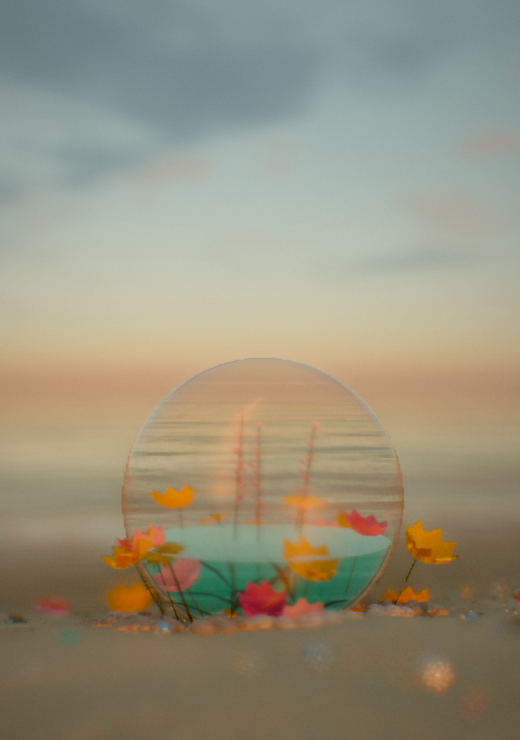
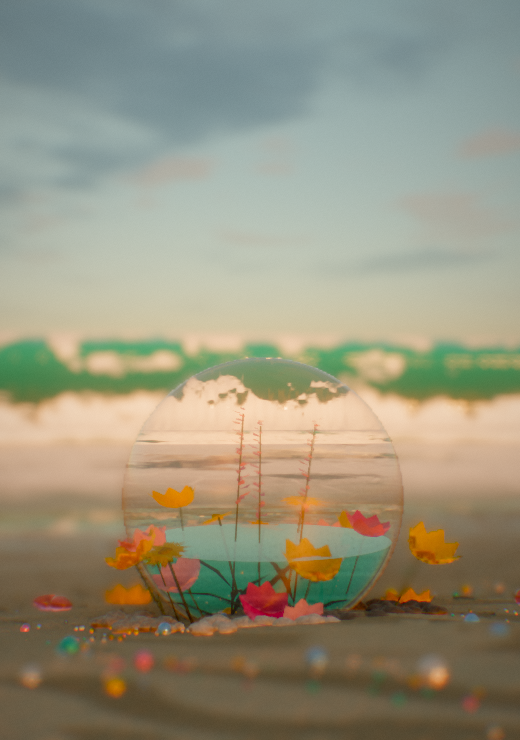
Flower Orb: breaking turquoise waves, whitewater, gentler DoF
Adds an animated breaking-wave mesh (opaque material with thin-crest
transmission, lip/base foam that grows as the wave collapses) and a
drifting whitewater sheet, shifts ocean absorption toward turquoise,
moves the orb nearer the water and relaxes the depth of field.

Claude-Session: https://claude.ai/code/session_01CrqiDHUxRRMtQAfhoBc2eP

diff --git a/scenes/flower-orb.html b/scenes/flower-orb.html
@@ -781,7 +781,44 @@ void main(){
  if(vWP.y<uClipY)discard;
  vec3 N=normalize(vN);vec3 V=normalize(uCam-vWP);
  vec3 alb=uAlbedo;float m=uMetal,r=uRough,hb=0.,bs=0.;
- if(uMode==5||uMode==6){
+ if(uMode==7){
+  /* breaking wave body (opaque). local: x along crest, y up (crest height uGlass.y), z toward shore.
+     uRough = foam amount (collapse phase), uMetal = time for foam drift */
+  if(dot(N,V)<0.)N=-N;
+  float Hc=max(uGlass.y,.1),hy=clamp(vLocal.y/Hc,0.,1.2),front=smoothstep(-.6,.3,vLocal.z);
+  vec2 fp=vec2(vLocal.x*.9,vLocal.y*2.2-uMetal*1.3);
+  float rip=vn(vLocal.xz*3.1+vec2(0.,uMetal*.7))*.6+vn(vLocal.xz*9.+uMetal)*.4;
+  N=bumpN(N,vWP,rip*.08,1.);
+  float NoV=max(dot(N,V),1e-3);float Fr=.02+.98*pow(1.-NoV,5.);
+  vec3 deepC=vec3(.004,.05,.045),lightC=vec3(.03,.62,.48);
+  float thin=pow(hy,1.6)*front;                       /* the upper front face is thin water: light passes through */
+  vec3 sky=envLod(vec3(0.,1.,0.),6.);
+  vec3 body=mix(deepC,lightC,thin)*(sky*1.1+uSunColor*.18);
+  body+=lightC*uSunColor*pow(max(dot(-V,uSunDir),0.),3.)*thin*.9;
+  vec3 col=body*(1.-Fr)+envLod(reflect(-V,N),.6)*Fr;
+  col+=uSunColor*pow(max(dot(N,normalize(V+uSunDir)),0.),300.)*4.*sunShadow(vWP,N,max(dot(N,uSunDir),0.),vViewZ);
+  /* foam: lip + crest, whitewater at the base of the face, sparse streaks on the back, all growing with collapse */
+  float fn=vn(fp*1.7)*.55+vn(fp*5.3)*.3+vn(fp*14.)*.15;
+  float lip=smoothstep(.78,.98,hy)*smoothstep(-.2,.4,vLocal.z);
+  float base=(1.-smoothstep(.0,.48,hy))*front;
+  float back=(1.-front)*smoothstep(.55,.95,vn(vLocal.xz*vec2(1.2,4.)+uMetal*.2))*.5;
+  float fa=clamp((lip*1.25+base*1.1+back)*(.6+uRough)+uRough*.55*front*hy,0.,1.);
+  float foam=smoothstep(.62-fa*.55,.75-fa*.5,fn+fa*.35);
+  vec3 foamC=vec3(.95)*(sky*1.2+uSunColor*max(dot(N,uSunDir),0.)*.35+uSunColor*.12);
+  col=mix(col,foamC,foam);
+  o=vec4(applyFog(col,vWP),1.);return;}
+ if(uMode==5||uMode==6||uMode==8){
+  if(uMode==8){
+   /* whitewater sheet (transparent): drifting foam patches + lace; uRough = time, uGlass.y = strength, local z toward shore */
+   vec2 q=vLocal.xz;float t=uRough;
+   vec2 dq=q-vec2(0.,t*.9);
+   float n=vn(dq*.7)*.5+vn(dq*2.1)*.3+vn(dq*6.5)*.2;
+   vec2 wl=worley(dq*1.3);float lace=1.-smoothstep(0.,.12,wl.y-wl.x);
+   float zz=vLocal.z/max(uGlass.z,.01);float band=smoothstep(-.5,-.3,zz)*(1.-smoothstep(.3,.5,zz));
+   float a=clamp((smoothstep(.32,.58,n)*.95+lace*.6*smoothstep(.2,.5,n))*band*uGlass.y,0.,1.);
+   vec3 sky=envLod(vec3(0.,1.,0.),6.);
+   vec3 c=vec3(.93)*(sky*1.15+uSunColor*max(uSunDir.y,0.)*.4+uSunColor*.1);
+   o=vec4(applyFog(c*a,vWP),a);return;}
   /* transparent pass only (premultiplied). 5 = solid/hollow glass: Fresnel reflection + lens image through a sphere
      (uGlassC = centre, radius), alpha uGlass.y/.z above/below local y uGlass.x; 6 = tinted liquid with in-scatter glow */
   if(dot(N,V)<0.)N=-N;
@@ -844,7 +881,7 @@ S.absorbFS=`
 in vec3 vWP;in vec3 vN;in vec3 vLocal;in float vViewZ;
 uniform sampler2D uHeight;uniform vec2 uHm;uniform vec3 uCam;
 layout(location=0) out vec4 o;
-const vec3 ABSORB=vec3(.45,.09,.04);
+const vec3 ABSORB=vec3(.50,.065,.10);
 void main(){
  float depth=max(0.,-texture(uHeight,vWP.xz*uHm.x+uHm.y).r);
  vec3 V=normalize(uCam-vWP);
@@ -854,7 +891,7 @@ S.waterFS=`
 in vec3 vWP;in vec3 vN;in vec3 vLocal;in float vViewZ;
 uniform sampler2D uHeight,uWv0,uWv1,uWv2,uWv3,uSim,uFoam;uniform vec2 uHm;uniform vec4 uWL,uSimWin,uFoamWin;uniform float uTime,uPixel;uniform vec4 uRipple[8];
 layout(location=0) out vec4 o;
-const vec3 ABS=vec3(.34,.085,.05);
+const vec3 ABS=vec3(.40,.062,.085);
 float bedH(vec2 p){return texture(uHeight,p*uHm.x+uHm.y).r;}
 vec3 seabed(vec2 p,float fp){
  float n2=vn(p*.9)*.6+vn(p*2.3)*.4;
@@ -2101,7 +2138,9 @@ function setLightUniforms(p){
  p.v4('uPatchRect',PATCH.cx,PATCH.cz,PATCH.size*.47,PATCH.rectOn).v4('uPatch',PATCH.cx,PATCH.cz,PATCH.size,0);
  p.v4('uSimWin',SIM.win[0],SIM.win[1],SIM.win[2],SIM.ok?1:0).v4('uSandWin',SAND.win[0],SAND.win[1],SAND.win[2],1);
  p.f('uTime',time).f('uCOn',CAUSTON).f('uCL',WAVE_L[0]).v4('uWL',WAVE_L[0],WAVE_L[1],WAVE_L[2],WAVE_L[3]).f('uPixel',2*Math.tan(cam.fov/2)/R.h).f('uClipY',CV.clip).f('uUseRefl',CV.useRefl).m('uMirrorVP',F.VPm);}
-function objModel(o){const r=o.rot,sp=o.spin;return m4.model(o.p[0],o.p[1],o.p[2],r[0]+(sp?sp[0]*time:0),r[1]+(sp?sp[1]*time:0),r[2],o.s);}
+function objModel(o){const r=o.rot,sp=o.spin,M=m4.model(o.p[0],o.p[1],o.p[2],r[0]+(sp?sp[0]*time:0),r[1]+(sp?sp[1]*time:0),r[2],o.s);
+ if(o.sv)for(let c=0;c<3;c++)for(let i=0;i<3;i++)M[c*4+i]*=o.sv[c];   /* optional per-axis scale */
+ return M;}
 function lodMesh(o){if(!o.lods)return o.m;const d=Math.hypot(o.p[0]-cam.pos[0],o.p[1]-cam.pos[1],o.p[2]-cam.pos[2]),ld=o.lodDist||[16,40];const k=d<ld[0]?0:(d<ld[1]?1:2);o.lodNow=k;return o.lods[Math.min(k,o.lods.length-1)];}
 function allObjects(){const l=objects.map(o=>({m:lodMesh(o),ms:o.lods?o.lods[o.lods.length-1]:o.m,model:objModel(o),mat:o.mat,glass:o.mat.glass,o,noShadow:o.castShadow===false}));
  for(const b of physics.balls){const bm=BALL_MATS[b.mat];l.push({m:meshes.sphere,model:m4.model(b.p[0],b.p[1],b.p[2],0,0,0,b.r),mat:{a:bm.a,m:bm.m,r:bm.r,mode:0}});}
@@ -2164,7 +2203,7 @@ function drawWorld(objs,mir){
  if(skirt)drawMesh(skirt);
  if(PATCH.on){const q=P.terrainPatch;setLightUniforms(q);q.i('uTerrainMode',0).f('uPatchOn',1);gl.enable(gl.POLYGON_OFFSET_FILL);gl.polygonOffset(-2,-2);drawMesh(PATCH.mesh);gl.disable(gl.POLYGON_OFFSET_FILL);}
  p=P.pbr;setLightUniforms(p);
- for(const o of objs){if(o.glass)continue;p.m('uModel',o.model).v3('uAlbedo',o.mat.a[0],o.mat.a[1],o.mat.a[2]).f('uMetal',o.mat.m).f('uRough',o.mat.r).i('uMode',o.mat.mode);drawMesh(o.m);}
+ for(const o of objs){if(o.glass)continue;p.m('uModel',o.model).v3('uAlbedo',o.mat.a[0],o.mat.a[1],o.mat.a[2]).f('uMetal',o.mat.m).f('uRough',o.mat.r).i('uMode',o.mat.mode);if(o.mat.wave)p.v4('uGlass',0,o.mat.wave.h,0,0);drawMesh(o.m);}
  gl.disable(gl.CULL_FACE);
  for(const it of instanced){if(mir&&!it.mirror)continue;p=P[it.prog];setLightUniforms(p);const g=(mir&&it.lod)?it.lod:it.main;gl.bindVertexArray(g.vao);gl.drawElementsInstanced(gl.TRIANGLES,g.count,g.type,0,Math.floor(it.n*it.density(tier)));}
  if(!mir&&foliage.length){p=P.foliage;setLightUniforms(p);foliageUniforms(p);const test=c=>visible(pl,c.c,c.r);
@@ -2208,7 +2247,7 @@ function drawGlass(objs){
  const cp=cam.pos,dd=o=>-Math.hypot(o.model[12]-cp[0],o.model[13]-cp[1],o.model[14]-cp[2]);gs.sort((a,b)=>dd(a)-dd(b));
  const p=P.pbr;setLightUniforms(p);gl.depthFunc(gl.LESS);gl.depthMask(false);gl.enable(gl.BLEND);gl.blendFunc(gl.ONE,gl.ONE_MINUS_SRC_ALPHA);gl.enable(gl.CULL_FACE);
  const one=(o,face,k)=>{const g=o.glass,c=o.model;
-  p.m('uModel',o.model).v3('uAlbedo',o.mat.a[0],o.mat.a[1],o.mat.a[2]).f('uMetal',0).f('uRough',.02).i('uMode',g.liquid?6:5)
+  p.m('uModel',o.model).v3('uAlbedo',o.mat.a[0],o.mat.a[1],o.mat.a[2]).f('uMetal',0).f('uRough',g.foam?time:.02).i('uMode',g.foam?8:(g.liquid?6:5))
    .v4('uGlass',g.fill===undefined?-9:g.fill,(g.aTop||0)*k,(g.aBot===undefined?g.aTop||0:g.aBot)*k,g.ior||1.5).v4('uGlassC',c[12],c[13],c[14],o.o.s*(g.r||1));
   gl.cullFace(face);drawMesh(o.m);};
  for(const o of gs)if(!o.glass.liquid&&o.glass.backfaces!==false)one(o,gl.FRONT,.4);
@@ -2331,13 +2370,41 @@ let seed=777;const rnd=()=>{seed=(seed*1664525+1013904223)>>>0;return seed/42949
 const grid=buildGrid(islandH);eng.setTerrain(grid,{mode:'island'});
 const ANG=.7,dir=[Math.cos(ANG),Math.sin(ANG)],side=[-dir[1],dir[0]];
 const pad=findBeachPad(grid,ANG);
-let k=0;while(k<40&&gridH(grid,pad[0]+dir[0]*k,pad[1]+dir[1]*k)>1.0)k+=.25;   /* dry sand a few metres above the swash */
+let k=0;while(k<40&&gridH(grid,pad[0]+dir[0]*k,pad[1]+dir[1]*k)>.7)k+=.25;   /* dry sand a few metres above the swash */
 const OX=pad[0]+dir[0]*k,OZ=pad[1]+dir[1]*k,OH=gridH(grid,OX,OZ);
 eng.setFocusArea(OX,OZ,OX+dir[0]*16,OZ+dir[1]*16);
 eng.setClouds({coverage:.62});
 eng.setFog({density:.0011});
 eng.setWind({strength:.25});
-eng.setPost({exposure:1.25,bloom:.08,threshold:.9,knee:.6,saturation:1.3,look:[1.08,1.22],vignette:.38,grain:.015,chromatic:.01,dofMaxCoC:Q.get('dof')==='0'?0:7});
+eng.setPost({exposure:1.25,bloom:.08,threshold:.9,knee:.6,saturation:1.3,look:[1.08,1.22],vignette:.38,grain:.015,chromatic:.01,dofMaxCoC:Q.get('dof')==='0'?0:4});
+
+/* ---------- breaking waves + whitewater (the FFT ocean has no breakers) ---------- */
+let sD=0;while(sD<80&&gridH(grid,OX+dir[0]*sD,OZ+dir[1]*sD)>-.25)sD+=.25;   /* distance from the orb to water ~25 cm deep */
+const PROF=[[-9,0],[-7,.12],[-5,.38],[-3.4,.75],[-2.1,1.12],[-1.1,1.38],[-.35,1.5],[.25,1.48],[.7,1.36],[.95,1.18],[.82,1.02],[.55,.86],[.36,.62],[.3,.36],[.42,.14],[.7,0]];
+function genBreaker(L,seg){
+ const vb=[],ib=[],np=PROF.length;
+ for(let i=0;i<=seg;i++){const u=i/seg,x=(u-.5)*L,env=Math.pow(Math.sin(Math.PI*u),.55),hv=env*(.8+.35*(vn2(u*5.3,1.7)-.3)),lean=1.2*(vn2(u*3.1,8.)-.5);
+  for(let j=0;j<np;j++){const [z,y]=PROF[j];vb.push(x,y*hv,z*(.35+.65*env)+lean,0,0,0,u,j/(np-1));}}
+ for(let i=0;i<seg;i++)for(let j=0;j<np-1;j++){const a=i*np+j,b=a+np;ib.push(a,a+1,b,a+1,b+1,b);}
+ const g=weldNormals({vb:new Float32Array(vb),ib:new Uint16Array(ib)});
+ const n=g.vb.length/8,vb2=new Float32Array(n*16);vb2.set(g.vb);vb2.set(g.vb,n*8);
+ for(let i=n;i<2*n;i++){vb2[i*8+3]*=-1;vb2[i*8+4]*=-1;vb2[i*8+5]*=-1;}
+ const ib2=new Uint16Array(g.ib.length*2);ib2.set(g.ib);for(let t=0;t<g.ib.length;t+=3){ib2[g.ib.length+t]=g.ib[t]+n;ib2[g.ib.length+t+1]=g.ib[t+2]+n;ib2[g.ib.length+t+2]=g.ib[t+1]+n;}
+ return {vb:vb2,ib:ib2};}
+/* yaw so that local +z points toward the shore */
+const shoreYaw=(()=>{let best=0,bd=-9;for(let a=0;a<TAU;a+=.002){const M=m4.model(0,0,0,0,a,0,1),d=-(M[8]*dir[0]+M[10]*dir[1]);if(d>bd){bd=d;best=a;}}return best;})();
+const breakerM=eng.addMesh(genBreaker(70,90));
+const waves=[{ph:0,off:3},{ph:.5,off:-9}].map(w=>({...w,o:eng.addObject({m:breakerM,p:[OX,0,OZ],s:1,sv:[1,1.4,1],rot:[0,shoreYaw,0],castShadow:false,
+ mat:{a:[0,0,0],m:0,r:0,mode:7,wave:{h:1.5}}})}));
+const WP=11;   /* seconds per breaker cycle */
+function updateWaves(t){
+ for(const w of waves){const p=((t/WP+w.ph)%1+1)%1,o=w.o,d=sD+17-p*11;
+  o.p=[OX+dir[0]*d+side[0]*w.off,-.05,OZ+dir[1]*d+side[1]*w.off];
+  const h=.16+.84*Math.pow(Math.sin(Math.PI*Math.min(p*1.15,1)),.8);o.sv=[1,1.55*h,.75+.4*h];
+  o.mat.r=sstep(.5,.95,p);o.mat.m=t;}}
+{const W=18,g={vb:new Float32Array([-45,0,-W/2,0,1,0,0,0, 45,0,-W/2,0,1,0,1,0, 45,0,W/2,0,1,0,1,1, -45,0,W/2,0,1,0,0,1]),ib:new Uint16Array([0,2,1,0,3,2])};
+ const d=sD+6;eng.addObject({m:eng.addMesh(g),p:[OX+dir[0]*d,.06,OZ+dir[1]*d],s:1,rot:[0,shoreYaw,0],castShadow:false,
+  mat:{a:[1,1,1],m:0,r:0,mode:0,glass:{foam:true,aTop:.9,aBot:W,backfaces:false}}});}
 
 /* ---------- glass orb + water ---------- */
 const R=.22,CY=OH+R*.86,FILL=-.32;           /* sphere radius (m), centre height (sunk a little into the sand), water line in local units */
@@ -2406,11 +2473,12 @@ for(const [lat,back,sc,yaw] of [[.42,.05,.05,.5],[-.36,-.42,.045,-.4]]){
   mat:{a:[1,.35,.62],m:0,r:.05,mode:0,glass:{aTop:.82,aBot:.82,ior:1.5,r:.6}}});}
 
 /* ---------- camera: low, close, shallow focus on the orb, sea behind ---------- */
-cam.fov=38*DEG;cam.fstop=1.8;cam.bokehScale=Q.get('dof')==='0'?0:2.4;
+cam.fov=38*DEG;cam.fstop=1.8;cam.bokehScale=Q.get('dof')==='0'?0:1.25;
 const rig={mode:'film',yaw:0,pitch:0,dist:1.7};
 function setMode(m){rig.mode=m;$('bMode').textContent=m==='film'?'Film':'Free';}
 const tgt=[OX,CY,OZ];
 function update(dt,t){
+ updateWaves(t);
  let yaw=Math.atan2(dir[1],dir[0])+Math.PI+.05,pit=.10,d=rig.dist;
  const asp=cv.width/Math.max(cv.height,1);if(asp>1.2)d*=.85;
  if(rig.mode==='film'){yaw+=.10*Math.sin(t*.07);pit+=.025*Math.sin(t*.05);}

diff --git a/scenes/flower-orb.scene.js b/scenes/flower-orb.scene.js
@@ -16,13 +16,41 @@ let seed=777;const rnd=()=>{seed=(seed*1664525+1013904223)>>>0;return seed/42949
 const grid=buildGrid(islandH);eng.setTerrain(grid,{mode:'island'});
 const ANG=.7,dir=[Math.cos(ANG),Math.sin(ANG)],side=[-dir[1],dir[0]];
 const pad=findBeachPad(grid,ANG);
-let k=0;while(k<40&&gridH(grid,pad[0]+dir[0]*k,pad[1]+dir[1]*k)>1.0)k+=.25;   /* dry sand a few metres above the swash */
+let k=0;while(k<40&&gridH(grid,pad[0]+dir[0]*k,pad[1]+dir[1]*k)>.7)k+=.25;   /* dry sand a few metres above the swash */
 const OX=pad[0]+dir[0]*k,OZ=pad[1]+dir[1]*k,OH=gridH(grid,OX,OZ);
 eng.setFocusArea(OX,OZ,OX+dir[0]*16,OZ+dir[1]*16);
 eng.setClouds({coverage:.62});
 eng.setFog({density:.0011});
 eng.setWind({strength:.25});
-eng.setPost({exposure:1.25,bloom:.08,threshold:.9,knee:.6,saturation:1.3,look:[1.08,1.22],vignette:.38,grain:.015,chromatic:.01,dofMaxCoC:Q.get('dof')==='0'?0:7});
+eng.setPost({exposure:1.25,bloom:.08,threshold:.9,knee:.6,saturation:1.3,look:[1.08,1.22],vignette:.38,grain:.015,chromatic:.01,dofMaxCoC:Q.get('dof')==='0'?0:4});
+
+/* ---------- breaking waves + whitewater (the FFT ocean has no breakers) ---------- */
+let sD=0;while(sD<80&&gridH(grid,OX+dir[0]*sD,OZ+dir[1]*sD)>-.25)sD+=.25;   /* distance from the orb to water ~25 cm deep */
+const PROF=[[-9,0],[-7,.12],[-5,.38],[-3.4,.75],[-2.1,1.12],[-1.1,1.38],[-.35,1.5],[.25,1.48],[.7,1.36],[.95,1.18],[.82,1.02],[.55,.86],[.36,.62],[.3,.36],[.42,.14],[.7,0]];
+function genBreaker(L,seg){
+ const vb=[],ib=[],np=PROF.length;
+ for(let i=0;i<=seg;i++){const u=i/seg,x=(u-.5)*L,env=Math.pow(Math.sin(Math.PI*u),.55),hv=env*(.8+.35*(vn2(u*5.3,1.7)-.3)),lean=1.2*(vn2(u*3.1,8.)-.5);
+  for(let j=0;j<np;j++){const [z,y]=PROF[j];vb.push(x,y*hv,z*(.35+.65*env)+lean,0,0,0,u,j/(np-1));}}
+ for(let i=0;i<seg;i++)for(let j=0;j<np-1;j++){const a=i*np+j,b=a+np;ib.push(a,a+1,b,a+1,b+1,b);}
+ const g=weldNormals({vb:new Float32Array(vb),ib:new Uint16Array(ib)});
+ const n=g.vb.length/8,vb2=new Float32Array(n*16);vb2.set(g.vb);vb2.set(g.vb,n*8);
+ for(let i=n;i<2*n;i++){vb2[i*8+3]*=-1;vb2[i*8+4]*=-1;vb2[i*8+5]*=-1;}
+ const ib2=new Uint16Array(g.ib.length*2);ib2.set(g.ib);for(let t=0;t<g.ib.length;t+=3){ib2[g.ib.length+t]=g.ib[t]+n;ib2[g.ib.length+t+1]=g.ib[t+2]+n;ib2[g.ib.length+t+2]=g.ib[t+1]+n;}
+ return {vb:vb2,ib:ib2};}
+/* yaw so that local +z points toward the shore */
+const shoreYaw=(()=>{let best=0,bd=-9;for(let a=0;a<TAU;a+=.002){const M=m4.model(0,0,0,0,a,0,1),d=-(M[8]*dir[0]+M[10]*dir[1]);if(d>bd){bd=d;best=a;}}return best;})();
+const breakerM=eng.addMesh(genBreaker(70,90));
+const waves=[{ph:0,off:3},{ph:.5,off:-9}].map(w=>({...w,o:eng.addObject({m:breakerM,p:[OX,0,OZ],s:1,sv:[1,1.4,1],rot:[0,shoreYaw,0],castShadow:false,
+ mat:{a:[0,0,0],m:0,r:0,mode:7,wave:{h:1.5}}})}));
+const WP=11;   /* seconds per breaker cycle */
+function updateWaves(t){
+ for(const w of waves){const p=((t/WP+w.ph)%1+1)%1,o=w.o,d=sD+17-p*11;
+  o.p=[OX+dir[0]*d+side[0]*w.off,-.05,OZ+dir[1]*d+side[1]*w.off];
+  const h=.16+.84*Math.pow(Math.sin(Math.PI*Math.min(p*1.15,1)),.8);o.sv=[1,1.55*h,.75+.4*h];
+  o.mat.r=sstep(.5,.95,p);o.mat.m=t;}}
+{const W=18,g={vb:new Float32Array([-45,0,-W/2,0,1,0,0,0, 45,0,-W/2,0,1,0,1,0, 45,0,W/2,0,1,0,1,1, -45,0,W/2,0,1,0,0,1]),ib:new Uint16Array([0,2,1,0,3,2])};
+ const d=sD+6;eng.addObject({m:eng.addMesh(g),p:[OX+dir[0]*d,.06,OZ+dir[1]*d],s:1,rot:[0,shoreYaw,0],castShadow:false,
+  mat:{a:[1,1,1],m:0,r:0,mode:0,glass:{foam:true,aTop:.9,aBot:W,backfaces:false}}});}
 
 /* ---------- glass orb + water ---------- */
 const R=.22,CY=OH+R*.86,FILL=-.32;           /* sphere radius (m), centre height (sunk a little into the sand), water line in local units */
@@ -91,11 +119,12 @@ for(const [lat,back,sc,yaw] of [[.42,.05,.05,.5],[-.36,-.42,.045,-.4]]){
   mat:{a:[1,.35,.62],m:0,r:.05,mode:0,glass:{aTop:.82,aBot:.82,ior:1.5,r:.6}}});}
 
 /* ---------- camera: low, close, shallow focus on the orb, sea behind ---------- */
-cam.fov=38*DEG;cam.fstop=1.8;cam.bokehScale=Q.get('dof')==='0'?0:2.4;
+cam.fov=38*DEG;cam.fstop=1.8;cam.bokehScale=Q.get('dof')==='0'?0:1.25;
 const rig={mode:'film',yaw:0,pitch:0,dist:1.7};
 function setMode(m){rig.mode=m;$('bMode').textContent=m==='film'?'Film':'Free';}
 const tgt=[OX,CY,OZ];
 function update(dt,t){
+ updateWaves(t);
  let yaw=Math.atan2(dir[1],dir[0])+Math.PI+.05,pit=.10,d=rig.dist;
  const asp=cv.width/Math.max(cv.height,1);if(asp>1.2)d*=.85;
  if(rig.mode==='film'){yaw+=.10*Math.sin(t*.07);pit+=.025*Math.sin(t*.05);}
